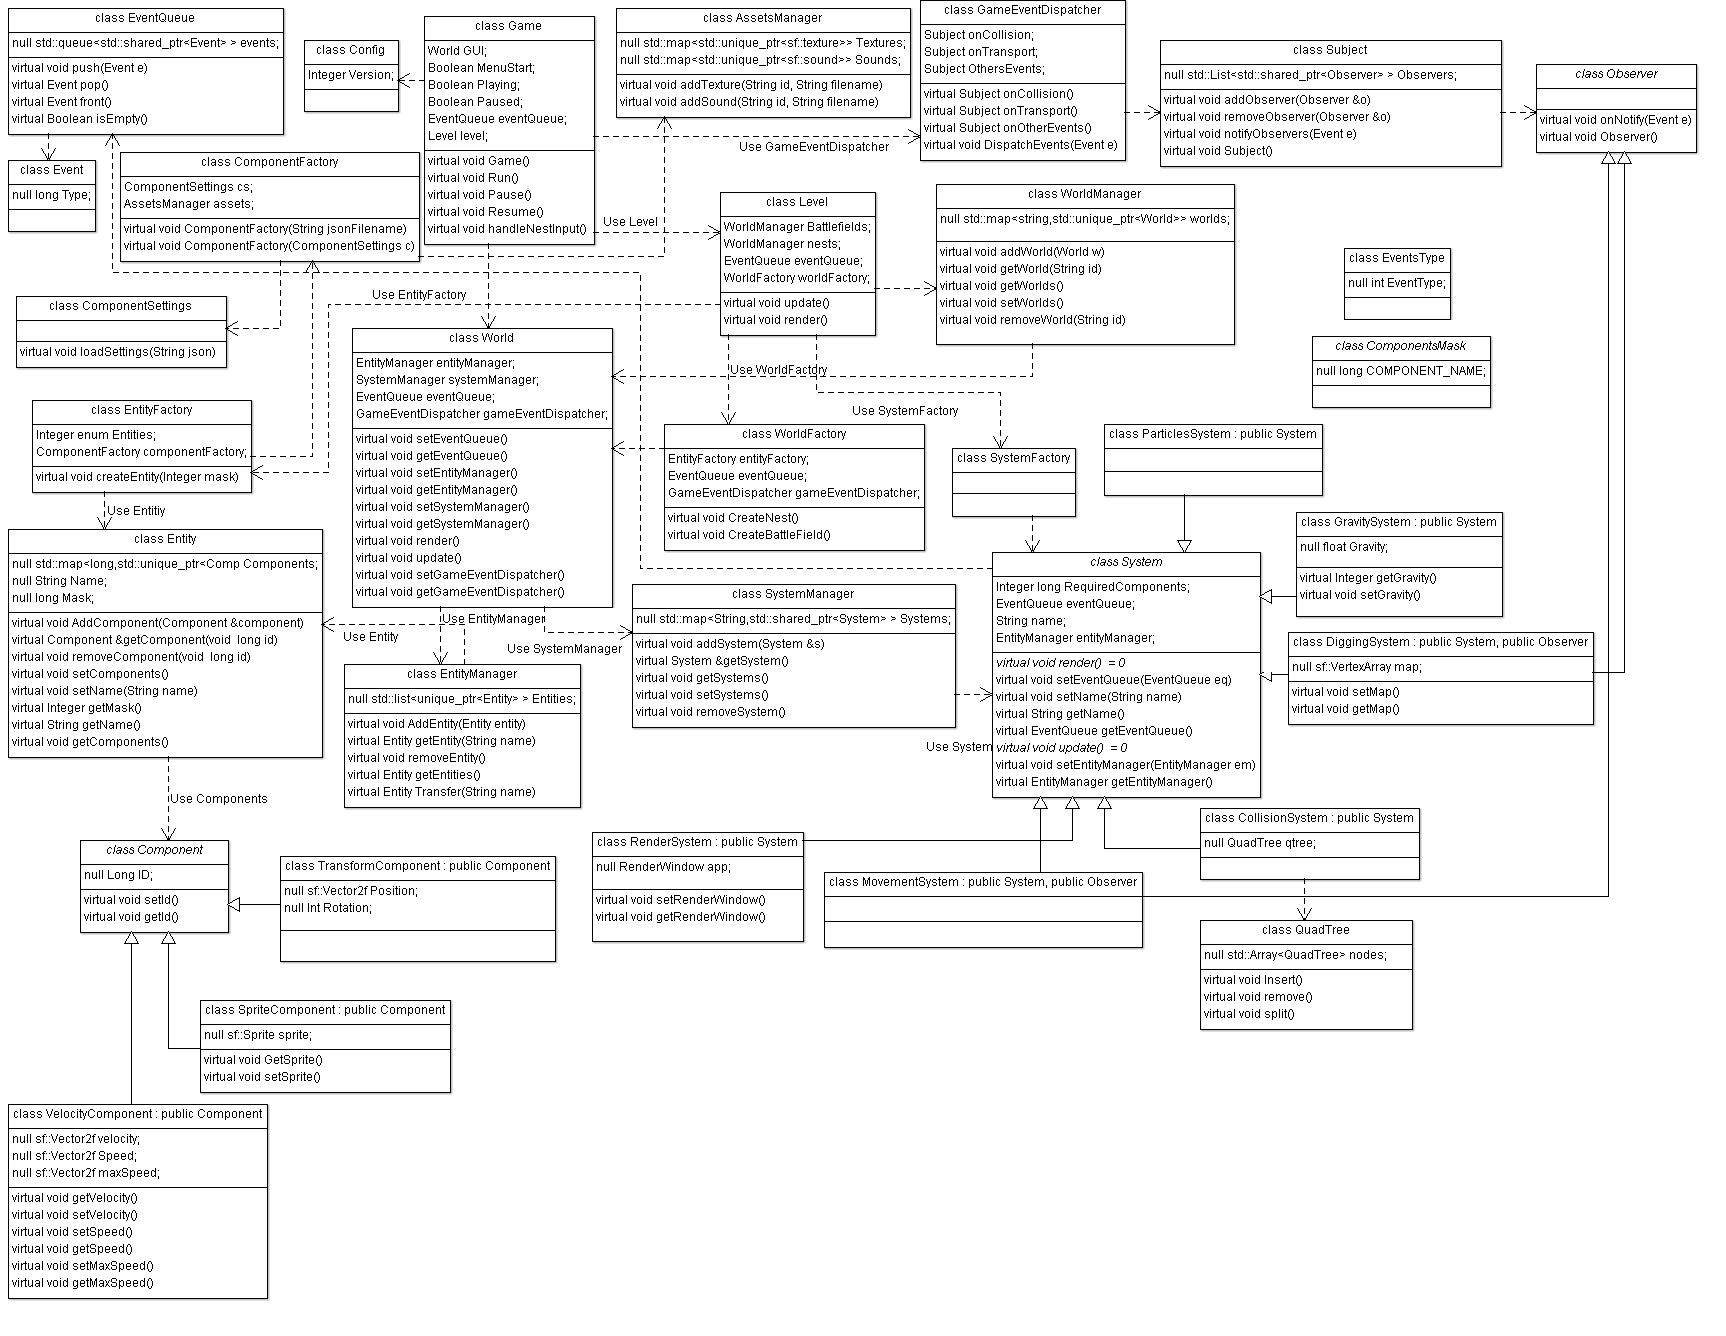
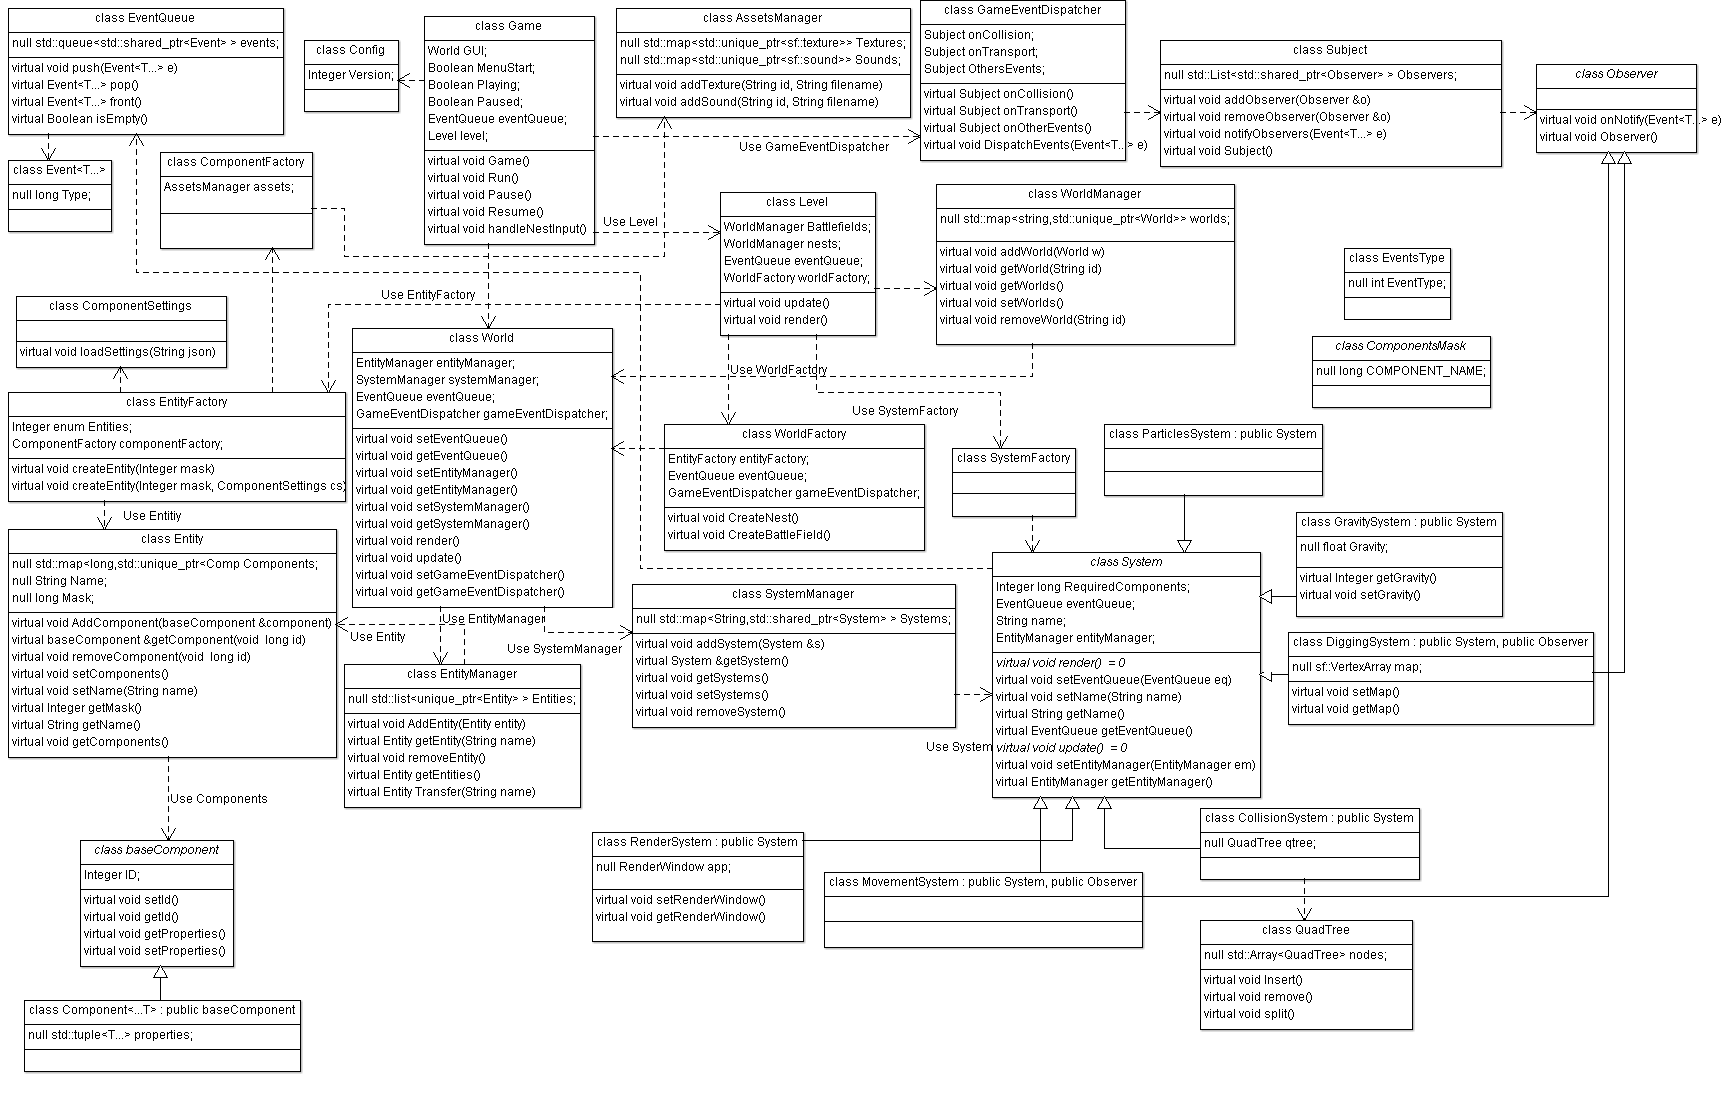
Especificado WorldManager, Cambiado UML(Settings)

Changed region(s): [[0.0, 0.0, 0.9826, 0.9811], [0.3378, 0.7358, 0.6756, 0.8584], [0.7063, 0.8278, 0.7677, 0.9197]]

diff --git a/include/WorldManager/WorldManager.hpp b/include/WorldManager/WorldManager.hpp
@@ -1,0 +1,21 @@
+#ifndef WORLD_MANAGER_H
+#define WORLD_MANAGER_H
+#include <World/World.hpp>
+#include <map>
+#include <memory>
+
+namespace ant{
+    class WorldManager{
+        private:
+            std::map<std::string,std::unique_ptr<World>> worlds;
+        public:
+            WorldManager();
+            void addWorld(std::unique_ptr<World> w);
+            World* getWorld(std::string id);
+            bool removeWorld(std::string id);
+            inline std::map<std::string,std::unique_ptr<World>>& getWorlds(){ return this->worlds; }
+            void setWorlds(std::map<std::string,std::unique_ptr<World>> worlds);
+            ~WorldManager();
+    };
+};
+#endif // WORLD_MANAGER_H

diff --git a/src/WorldManager/WorldManager.cpp b/src/WorldManager/WorldManager.cpp
@@ -1,0 +1,22 @@
+#include <WorldManager/WorldManager.hpp>
+
+namespace ant{
+    WorldManager::WorldManager(){
+
+    }
+    void WorldManager::addWorld(std::unique_ptr<World> w){
+
+    }
+    World* WorldManager::getWorld(std::string id){
+
+    }
+    bool WorldManager::removeWorld(std::string id){
+
+    }
+    void WorldManager::setWorlds(std::map<std::string,std::unique_ptr<World>> worlds){
+        this->worlds = std::move(worlds);
+    }
+    WorldManager::~WorldManager(){
+
+    }
+};

diff --git a/include/AssetManager/AssetManager.hpp b/include/AssetManager/AssetManager.hpp
@@ -12,7 +12,7 @@ namespace ant{
             std::map<std::string,std::unique_ptr<sf::Image>> images;
         public:
             void addTexture(std::string id,std::string filename);
-            sf::Texture getTexture(std::string id);
+            sf::Texture* getTexture(std::string id);
             void removeTexture(std::string id);
             void addImage(std::string id,std::string filename);
             sf::Image* getImage(std::string id);

diff --git a/src/Components/Component.cpp b/src/Components/Component.cpp
@@ -9,11 +9,7 @@ namespace ant{
             this->id = id;
         }
         bool Component::operator==(const Component& c)const{
-            if(c.id == this->id){
-                return true;
-            }else{
-                return false;
-            }
+            return (c.id == this->id);
         }
         Component::~Component(){
 

diff --git a/include/ComponentFactory/ComponentFactory.hpp b/include/ComponentFactory/ComponentFactory.hpp
@@ -6,7 +6,6 @@
 namespace ant{
     class ComponentFactory{
         private:
-
             std::shared_ptr<AssetManager> assets;
         public:
             ComponentFactory();
